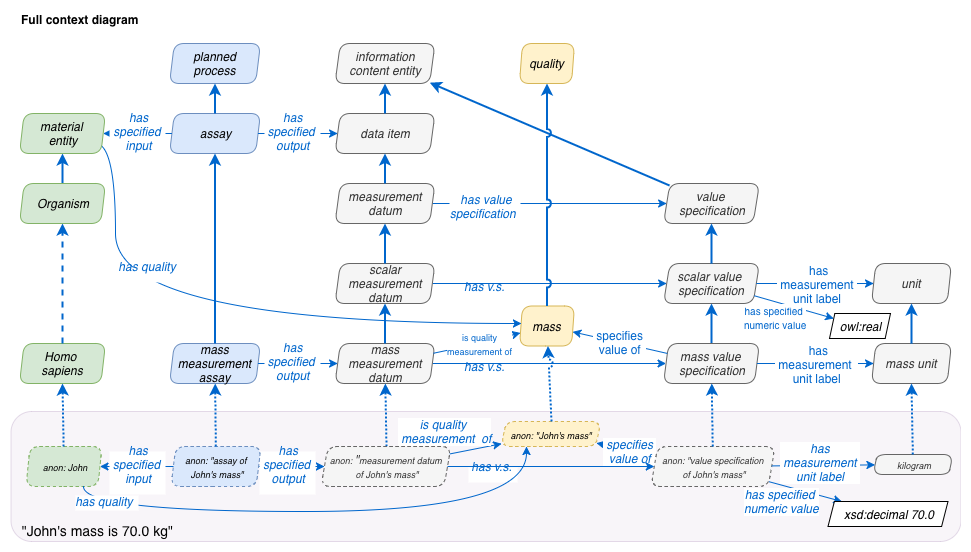
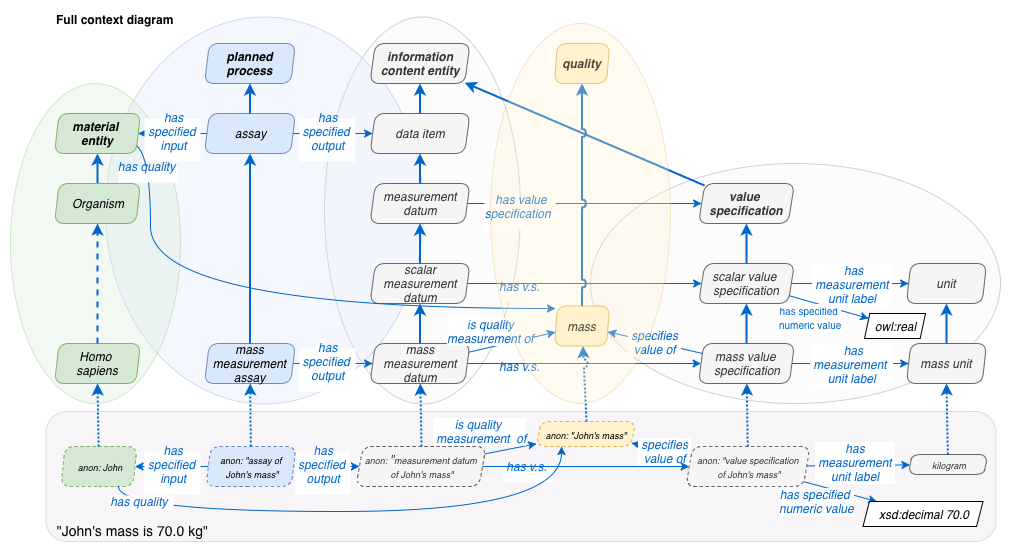
edits

diff --git a/_pages/docs/data-vs.md b/_pages/docs/data-vs.md
@@ -2,9 +2,9 @@
 layout: single
 title: ""
 permalink: /docs/data-vs/
-toc: true
+#toc: true
 sidebar:
-#  nav: "docs"
+   nav: "docs"
 ---
 
 # Value Specifications
@@ -21,10 +21,10 @@ A value specification's primary aboutness is expressed using the **[`specifies v
 
 The connection between a measurement datum (or any ICE term) and a value specification is accomplished with the **[`has value specification`](http://purl.obolibrary.org/obo/OBI_0001938){:target="_blank"}** object property. Thus an [`age measurement datum`](http://purl.obolibrary.org/obo/OBI_0001167){:target="_blank"} could be linked to a numeric value specification which details the unit - year, month, day etc. of the measure. It could alternately be provided as a categorical value for "mature", "immature", "neonatal", etc.  (As mentioned in the `Data Types` section, OBI does not currently have a way to describe ordinal values beyond listing them as categorical choices.)
 
-In the case where a value specification and/or measurement datum is about the conjunction of a few different things, the aboutness target can be a precomposed term or instance of those components, with one component, usually a quality, providing the primary type of the measure.  For example "eye color" is primarily about color - and so limited to ways that can be reported, but secondarily about the body part being observed, and finally - in the instance, references a particular organism being observed. An example generic value specification and measurement datum both pointing to John's eye color being brown (in this case "specifies value of" points directly to the value specification's essentially categorical value. Here the `color value specification` provides the range of choices permitted for the instance of color quality.
+In the case where a value specification and/or measurement datum is about the conjunction of a few different things, the aboutness target can be a precomposed term or instance of those components, with one component, usually a quality, providing the primary type of the measure.  For example "eye color" is primarily about color - and so limited to ways that can be reported, but secondarily about the body part being observed, and finally - in the instance, references a particular organism being observed. An example generic value specification and measurement datum both pointing to John's eye color being brown (in this case "specifies value of" points directly to the value specification's essentially categorical value. Here the `color value specification` points to the range of choices permitted for the instance of color quality, in this case, any subclass of color is ok.
 
 <img src="/assets/images/docs/data_john_eye.png">
 
-Note that this is our first example of measuring a property of a part of something. Above, an instance of Uberon eye is part of an instance of Homo sapiens, a parthood simplification for what some might need to model in a more complicated way.  For example, optometrists need to distinguish left and right eyes, and allow each to have different iris colors (it happens!), and to describe the color of sclera or conjunctiva (e.g. for red eye or pink eye).  Uberon supports this with `left eye` and `right eye` terms as subclasses of `eye`, and says "`eye` `part of` some `visual system`" but it stops short of establishing a parthood chain between `eye` and `mammalia`.  In the future such standardizing axioms may be introduced which client ontologies and triple store databases can employ to ensure data structure compatibility.  Regardless, it is usually ok to use a simple `part of` relation to abbreviate a more intricate parthood chain if it fits your needed granularity of description.
+This is our first example of measuring a property of a part of something. Above, an instance of Uberon eye is part of an instance of Homo sapiens, a parthood simplification for what some might need to model in a more complicated way.  For example, optometrists need to distinguish left and right eyes, and allow each to have different iris colors (it happens!), and to describe the color of sclera or conjunctiva (e.g. for red eye or pink eye).  Uberon supports this with `left eye` and `right eye` terms as subclasses of `eye`, and says "`eye` `part of` some `visual system`" but it stops short of establishing a parthood chain between `eye` and `mammalia`.  In the future such standardizing axioms may be introduced which client ontologies and triple store databases can employ to ensure data structure compatibility.  Regardless, it is usually ok to use a simple `part of` relation to abbreviate a more intricate parthood chain if it fits your needed granularity of description.
 
 Note that different assays may output the same measurement datum and value specification combination.  For example an [`age since planting measurement datum`](http://purl.obolibrary.org/obo/OBI_0001156){:target="_blank"} and integer year value specification could be output from assays that calculate or estimate by input tree ring count, carbon 14 analysis, planting date, height of species etc.  It is up to an ontology implementer to define a more specific process as a sub-class of an existing general process if needed; if it falls within the scope of OBI, it may be a candidate for inclusion.

diff --git a/_pages/docs/data-intro.md b/_pages/docs/data-intro.md
@@ -9,13 +9,16 @@ sidebar:
 
 One of OBI's missions, to model the logical structure of experimental assays, requires a close study of entity attributes, processes and their participants, and data being collected. Below we introduce the general framework for describing processes, datums used as process input or output, and data collection specifications. Some stakeholders are involved only in process modelling in order to document study design and/or protocol details as metadata; others are turning to OBI ontology to provide standardization of data collection and exchange; software developers will require knowledge in both these areas in order to provide the next generation of integration tools. We aim to provide analysis approaches and diagrams to satisfy these needs.
 
-In addition to reasoning prowess, using an OWL ontology to detail types of assay data - parameters, measurables, independent and dependent variables - will encourage standardization of their usage, enable experimental reproducibility, and facilitate data exchange and conversion.
-
-Note that the diagrams in this section are contained in a [/assets/files/data_obi_draw.io.xml](/assets/files/data_obi_draw.io.xml){:target="_blank"} file, in [draw.io](http://draw.io){:target="_blank"} diagram format for reuse in ontology design work.  Most of the diagrams below skip relation cardinality details (e.g. "X 'is about' {some / all / max 3 / only} Y"), but these do exist in OBI to enforce more structure, and are detailed in OWL code examples.
-
 Aligning with BFO, OBI divides references about study design and assay structure into roughly four domains - **[`material entities`](http://purl.obolibrary.org/obo/BFO_0000040){:target="_blank"}**, their observable **[`qualities`](http://purl.obolibrary.org/obo/BFO_0000019){:target="_blank"}**, **[`planned processes`](http://purl.obolibrary.org/obo/OBI_0000011){:target="_blank"}**, and **[`information artifacts`](http://purl.obolibrary.org/obo/IAO_0000030){:target="_blank"}**, which all show up in process and data modelling.
 
-## Material entities and their properties
+The following documentation sections will focus on various parts needed to detail processes and their input and output data.  The diagram below shows how OBI expresses the statement "John's mass is 70kg" using triples, and the related material entity, process, datum, quality and value specification ontology components hovering in the background.  It shows the big picture - by tracing classes further up the inheritance hierarchy, we can see the impact on instance data. Details on each of these sections follow.
+
+<img align="right" src="/assets/images/docs/data_john_mass.png">
+
+([full-sized image](/assets/images/docs/data_john_mass.png){:target="_blank"})
+
+
+## Material entities and their properties/qualities
 
 Under `material entity` we find OBI's **[`organism`](http://purl.obolibrary.org/obo/OBI_0100026){:target="_blank"}** - the usual focus of biomedical investigations. Organism related terms - whether in OBI or in other ontologies that cover taxonomic, anatomic, developmental, pathological, environmental etc. aspects - will likely occur in study design objectives, protocols and experimental observations.
 
@@ -50,14 +53,6 @@ The `information content entity` **[`data item`](http://purl.obolibrary.org/obo/
 * A **[`predicted data item`](http://purl.obolibrary.org/obo/OBI_0302867){:target="_blank"}** class that applies to output of a [`prediction`](http://purl.obolibrary.org/obo/OBI_0302910){:target="_blank"} process.
 
 All ICEs are allowed a **[`value specification`](http://purl.obolibrary.org/obo/OBI_0001933){:target="_blank"}** that records some pertinent categorical or numeric value about an entity; more on this in the data collection section.
-
-## A Combined View
-
-The following documentation sections will focus on the various parts needed to detail processes and their input and output data.  The diagram below shows both the way we express "John's mass is 70kg" using triples, and the material entity, process, datum, quality and value specification ontology components that must be referenced to do so.  It allows us to see the big picture - by tracing classes further up the inheritance hierarchy, we can see the impact on instance data.
-
-<img align="right" src="/assets/images/docs/data_john_mass.png">
-
-([full-sized image](/assets/images/docs/data_john_mass.png){:target="_blank"})
 
 ***
 <sup>1</sup>The ability of an ICE to bear information depends on the coding scheme and medium it inheres in, hence it is a generically dependent continuant.

diff --git a/_pages/docs.md b/_pages/docs.md
@@ -8,7 +8,7 @@ sidebar:
 
 [//]: # (Please put comments like this one into the text to communicate with other OBI-ers)
 
-This user manual is designed to explain the core functionality of OBI for newcomers, and to serve as a canonical reference for OBI developers. This is a work in progress, but here we detail and provide a roadmap for OBI building blocks. 
+This user manual is designed to explain the core functionality of OBI for newcomers, and to serve as a canonical reference for OBI developers. This is a work in progress, but here we detail and provide a roadmap for OBI building blocks.  In addition to reasoning prowess, using OBI and other OWL ontologies to detail types of assay data - parameters, measurables, independent and dependent variables - will encourage standardization of their usage, enable experimental reproducibility, and facilitate data exchange and conversion.
 
 # Basic Documentation
 
@@ -24,4 +24,9 @@ This user manual is designed to explain the core functionality of OBI for newcom
 -->
 
 More background and detail on OBI vocabulary and functionality is available in papers listed on the [Media](/media/) page.
+
+Most documentation diagrams are contained in a [/assets/files/data_obi_draw.io.xml](/assets/files/data_obi_draw.io.xml){:target="_blank"} file, in [draw.io](http://draw.io){:target="_blank"} diagram format for reuse in ontology design work.  The diagrams usually skip relation cardinality details (e.g. "X 'is about' {some / all / max 3 / only} Y"), but these do exist in OBI to enforce more structure, and are detailed in OWL code examples.
+
+In the documentation, the first usage of an ontology term like `[patient role](http://purl.obolibrary.org/obo/OBI_0000093)` is hyperlinked to its PURL (permanent URL) web addresses for easy reference, usually on the Ontobee lookup servce where its position in the class hierarchy is shown, as well as equivalency and other subclass axioms, synonyms, definition, etc.
+
 
